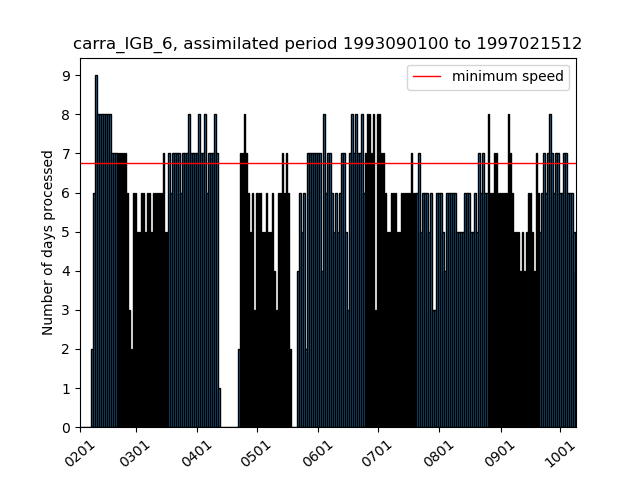
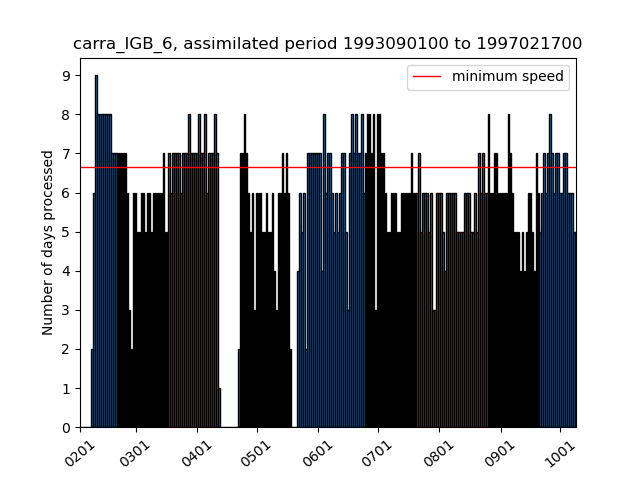
update repo

Changed region(s): [[0.125, 0.3125, 0.9062, 0.375], [0.8438, 0.0625, 0.9062, 0.125]]

diff --git a/current_state_sims.html b/current_state_sims.html
@@ -2,18 +2,18 @@
 <h1>Estimated completion dates and simulation speeds</h1>
 <p>Stream (production) completion date based on 30d (7d) moving avg speed</p>
 <p><a href="https://docs.google.com/document/d/1zDKAxuEXYnWWYzT3SZnZwY5WW8nodUMeYRjAGz46coc/edit#">Details of the calculation of the completion dates</a></p>
-<p>Last update: 2021/10/10 00:39:02 UTC</p>
+<p>Last update: 2021/10/10 06:43:07 UTC</p>
 <p>Total progress CARRA: 99.55% <a href="https://hirlam.org/portal/CARRA/Progress/GanntChart_CARRA.html"> (see detailed progress meter in Gantt chart) </a></p>
 <p>Total progress PANARCTIC: 91.67% </p>
 <p><a href="https://hirlam.org/portal/CARRA/Progress/waiting_times.html"> Queue waiting times for all streams</a></p>
 <p><a href="https://hirlam.org/portal/CARRA/Progress/mars_status.html"> MARS archive throughput </a></p>
 <html><table border="1"><tr><th>expId</th><th>Current assimilated date</th><th>End date of stream </th><th> Completion date</th><th> Avg. throughput (7d) </th> <th>Avg. throughput (30d) </th> <th> Remarks</tr>
-<tr bgcolor="#FFFF00"><td>carra_NE_3</td><td>2021063000</td><td>2021063021</td><td>2021101000</td><td>(0.0) days/day</td><td>(2.03) days/day</td><td>Inactive the past week</tr>
+<tr bgcolor="#FFFF00"><td>carra_NE_3</td><td>2021063000</td><td>2021063021</td><td>2021101006</td><td>(0.0) days/day</td><td>(2.03) days/day</td><td>Inactive the past week</tr>
 <tr bgcolor="#33FF38"><td>carra_NE_4</td><td>1992090100</td><td>1992083021</td><td>Finished on 20210824</td><td>(0.0) days/day</td><td>(0.0) days/day</td><td>Stream finished</tr>
 <tr bgcolor="#33FF38"><td>carra_NE_5</td><td>1994090100</td><td>1994083021</td><td>Finished on 20210824</td><td>(0.0) days/day</td><td>(0.0) days/day</td><td>Stream finished</tr>
-<tr bgcolor="#33FF38"><td>carra_NE_6</td><td>1997070100</td><td>1997063021</td><td>2021100902</td><td>(0.0) days/day</td><td>(1.1) days/day</td><td>Stream finished</tr>
-<tr bgcolor="#FFFF00"><td>carra_IGB_3</td><td>2021063000</td><td>2021063021</td><td>2021101000</td><td>(0.0) days/day</td><td>(2.17) days/day</td><td>Inactive the past week</tr>
+<tr bgcolor="#33FF38"><td>carra_NE_6</td><td>1997070100</td><td>1997063021</td><td>2021100908</td><td>(0.0) days/day</td><td>(1.1) days/day</td><td>Stream finished</tr>
+<tr bgcolor="#FFFF00"><td>carra_IGB_3</td><td>2021063000</td><td>2021063021</td><td>2021101006</td><td>(0.0) days/day</td><td>(2.17) days/day</td><td>Inactive the past week</tr>
 <tr bgcolor="#33FF38"><td>carra_IGB_4</td><td>1992090100</td><td>1992083021</td><td>Finished on 20210907</td><td>(0.0) days/day</td><td>(0.0) days/day</td><td>Stream finished</tr>
-<tr bgcolor="#33FF38"><td>carra_IGB_5</td><td>1994090100</td><td>1994083021</td><td>2021100909</td><td>(0.0) days/day</td><td>(3.07) days/day</td><td>Stream finished</tr>
-<tr bgcolor="#FFA500"><td>carra_IGB_6</td><td>1997021512</td><td>1997063021</td><td>2021110200</td><td>(5.86) days/day</td><td>(5.87) days/day</td><td>Completion date after project end (20211031)</tr>
-<tr bgcolor="#33FF38"><td>carra_pan</td><td>2018090100</td><td>2018090100</td><td>2021101000</td><td>(3.0) days/day</td><td>(3.27) days/day</td><td>Stream finished</tr>
+<tr bgcolor="#33FF38"><td>carra_IGB_5</td><td>1994090100</td><td>1994083021</td><td>2021100915</td><td>(0.0) days/day</td><td>(3.07) days/day</td><td>Stream finished</tr>
+<tr bgcolor="#FFA500"><td>carra_IGB_6</td><td>1997021700</td><td>1997063021</td><td>2021110119</td><td>(6.0) days/day</td><td>(5.9) days/day</td><td>Completion date after project end (20211031)</tr>
+<tr bgcolor="#33FF38"><td>carra_pan</td><td>2018090100</td><td>2018090100</td><td>2021101006</td><td>(3.0) days/day</td><td>(3.27) days/day</td><td>Stream finished</tr>
